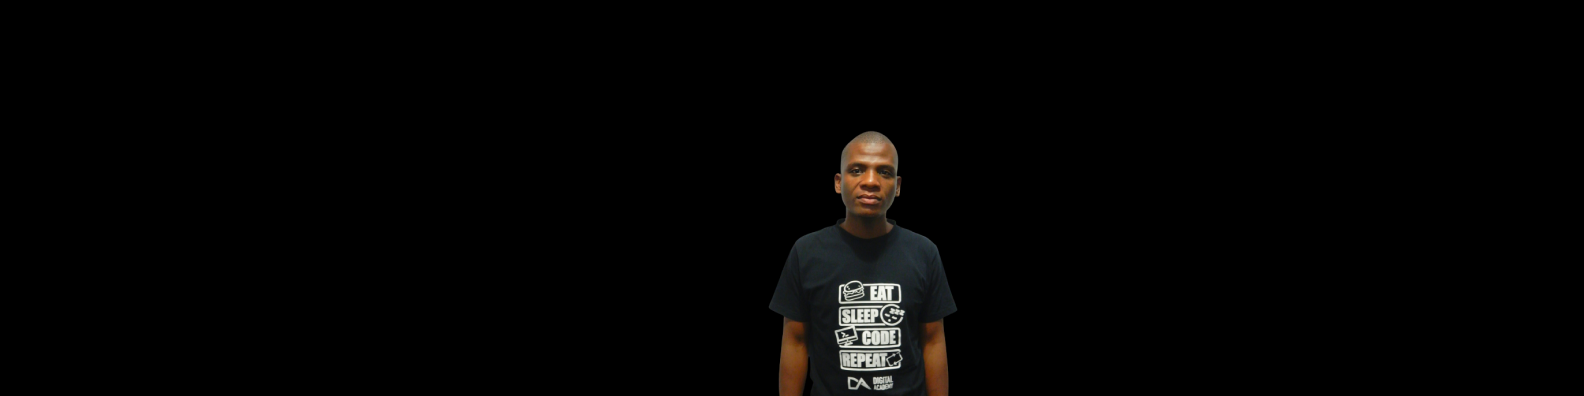
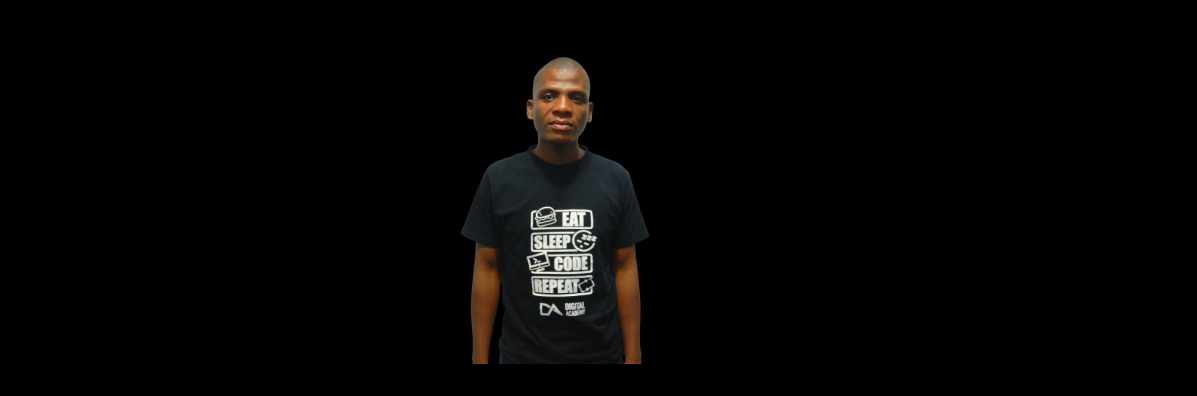
added project

Changed region(s): [[0.3709, 0.1212, 0.6182, 1.0]]

diff --git a/index.html b/index.html
@@ -51,7 +51,7 @@
            </p>
 	  </div>
 	  <div class="w50">
-	    <img src="background.png" class="img">
+	    <img src="Lebogang.png" class="img">
 	  </div>
 	</div>
   </section>
@@ -132,7 +132,7 @@
 	</div>
 	<div class="content">
 	  <div class="testimonialBx">
-	    <p>Lebogang has a strong awareness of the state of the project at all times with an ability to iterate clean code based on feedback. Most importantly Lebogag takes responsibility of the overall project and can set balanced and realistic goals for projects.</p>
+	    <p>Lebogang has a strong awareness of the state of the project at all times with an ability to iterate clean code based on feedback. Most importantly Lebogang takes responsibility of the overall project and can set balanced and realistic goals for projects.</p>
 		<h3>Nathaniel Makalima<br><span>Frontend developer</span></h3>
 	  </div>
 	  <div class="testimonialBx">
